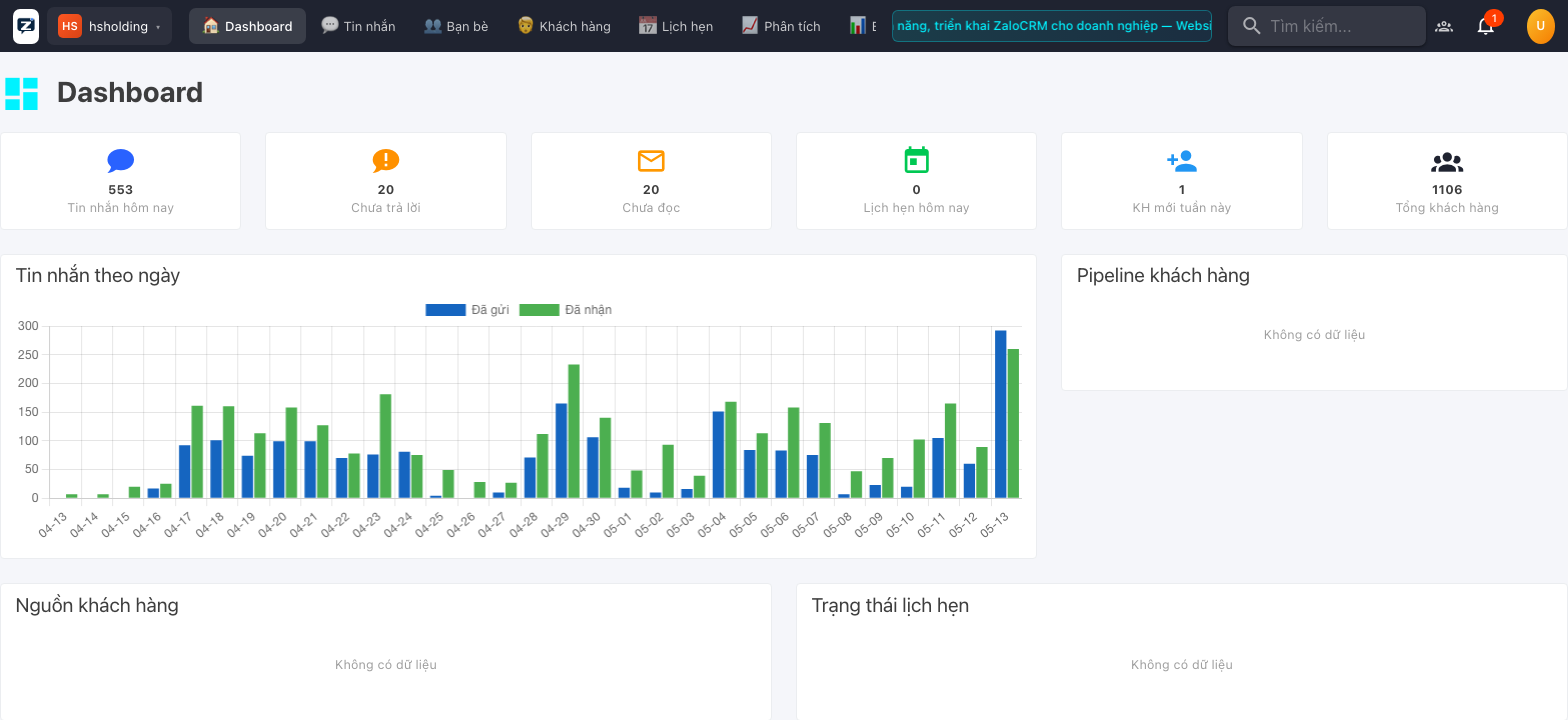
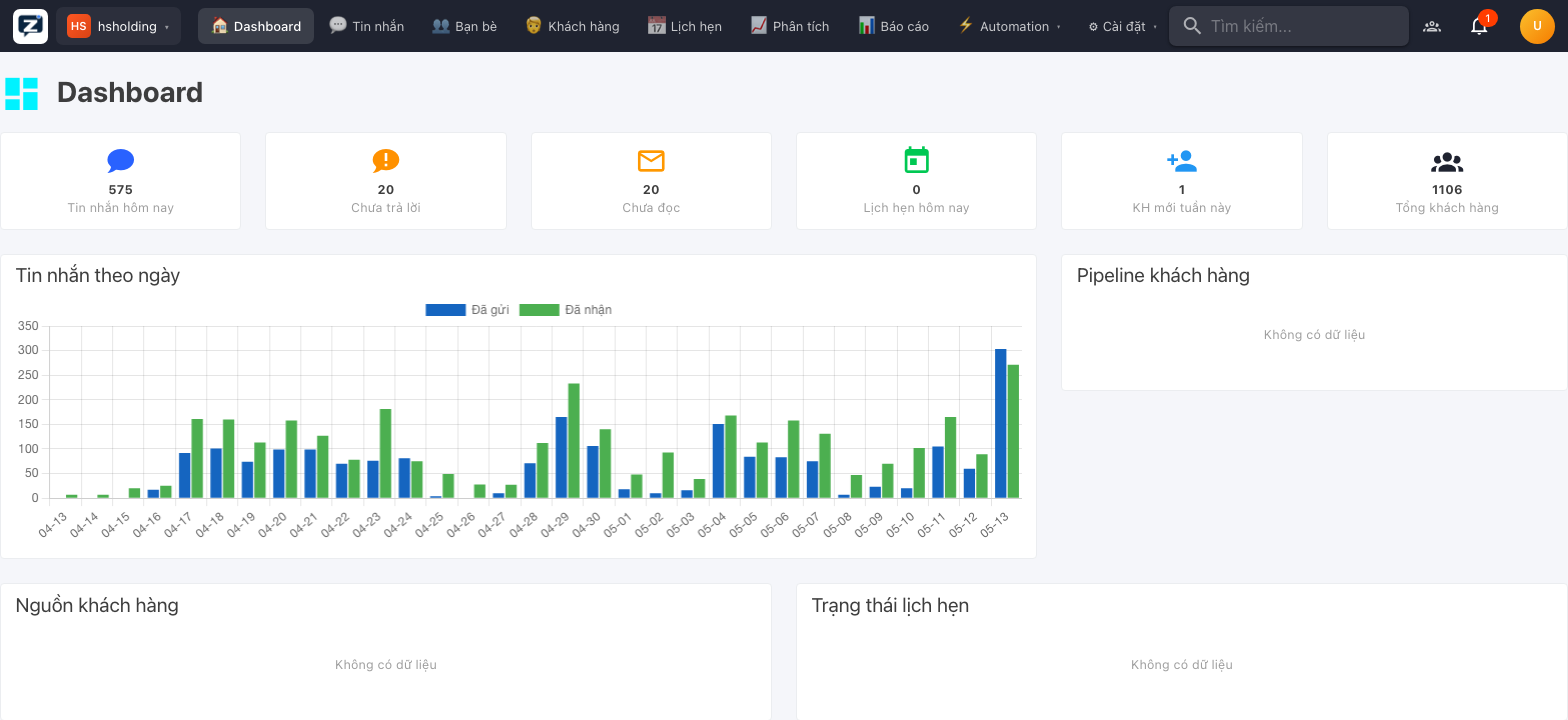
fix(ui): topnav-spacer flex:1 — right cluster bám phải khi marquee ẩn

diff --git a/frontend/src/layouts/DefaultLayout.vue b/frontend/src/layouts/DefaultLayout.vue
@@ -65,6 +65,9 @@
         </v-menu>
       </nav>
 
+      <!-- Flexible spacer pushes everything after it to the right edge. -->
+      <div class="topnav-spacer" />
+
       <!--
         ATTRIBUTION BANNER — Required by Apache License 2.0 NOTICE clause §4(d).
         Source data is obfuscated in src/composables/use-attribution.ts; see that
@@ -273,9 +276,11 @@ function logout() {
 .nav-tab:hover { background: rgba(255,255,255,0.06); color: white; }
 .nav-tab.active { background: rgba(255,255,255,0.12); color: white; font-weight: 500; }
 
+.topnav-spacer { flex: 1; min-width: 0; }
+
 .contact-marquee {
   flex: 0 0 320px;
-  margin: 0 12px;
+  margin-right: 12px;
   height: 32px;
   display: flex;
   align-items: center;